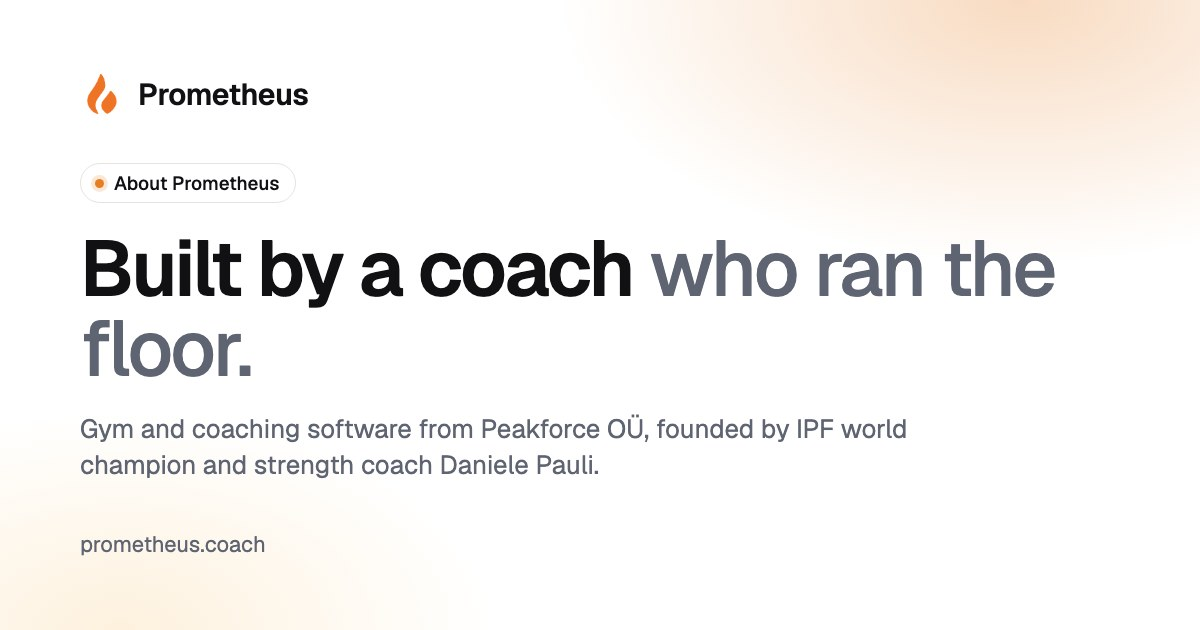
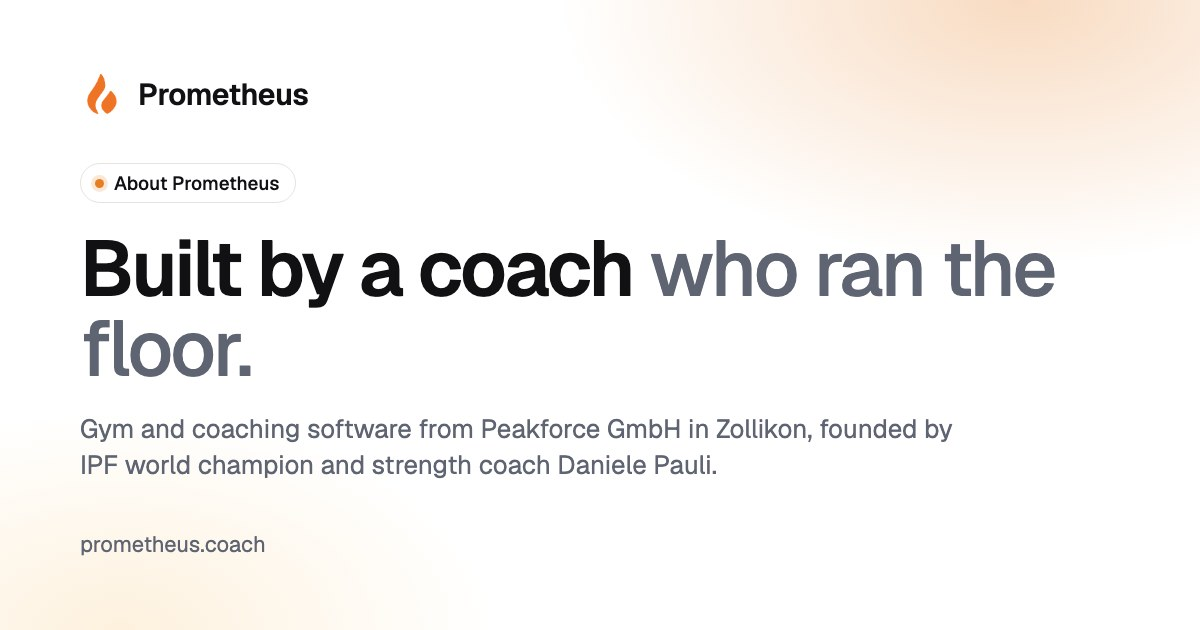
feat(impressum): Peakforce GmbH mit UID und Handelsregister-Nummer, Vorschaubilder ohne OÜ
Die Peakforce GmbH ist seit dem 20.10.2026 im Handelsregister des Kantons
Zürich eingetragen, SHAB-Publikation 23.10.2026 (Zefix): UID CHE-438.502.677,
CH-020-4093946-7. Impressum nennt Sitz, Register und UID, die Strukturdaten
auf / die UID. Die Teilen-Vorschaubilder für /about/ und /contact/ nannten
noch „Peakforce OÜ, Tallinn, Estonia" und sind neu gerendert.

Changed region(s): [[0.0617, 0.7238, 0.5858, 0.754], [0.4933, 0.6635, 0.8017, 0.6937]]

diff --git a/src/pages/Impressum.jsx b/src/pages/Impressum.jsx
@@ -1,7 +1,7 @@
 /* Impressum der Peakforce GmbH (owner, 2026-10-19: "OÜ sofort weg", Adresse
-   Niederfelbenweg 4, 8702 Zollikon). UID und Handelsregister-Nummer kommen
-   dazu, sobald der Eintrag im Handelsregister des Kantons Zürich publiziert
-   ist; nie "in Gründung" schreiben (Owner-Verbot). */
+   Niederfelbenweg 4, 8702 Zollikon). Eingetragen im Handelsregister des
+   Kantons Zürich am 20.10.2026, SHAB-Publikation 23.10.2026 (Zefix). Nie
+   "in Gründung" schreiben (Owner-Verbot). */
 const MAIL = 'management@prometheus.coach'
 
 export default function Impressum() {
@@ -16,7 +16,10 @@ export default function Impressum() {
           <ul className="space-y-2">
             <li><strong className="text-ink">Firma:</strong> Peakforce GmbH</li>
             <li><strong className="text-ink">Rechtsform:</strong> Gesellschaft mit beschränkter Haftung nach Schweizer Recht</li>
+            <li><strong className="text-ink">Sitz:</strong> Zollikon, Kanton Zürich</li>
             <li><strong className="text-ink">Adresse:</strong> Niederfelbenweg 4, 8702 Zollikon, Schweiz</li>
+            <li><strong className="text-ink">Handelsregister:</strong> Handelsregister des Kantons Zürich, CH-020-4093946-7</li>
+            <li><strong className="text-ink">UID:</strong> CHE-438.502.677</li>
           </ul>
         </section>
 

diff --git a/src/pages/HomePage.jsx b/src/pages/HomePage.jsx
@@ -125,6 +125,7 @@ const LD = {
       '@id': 'https://prometheus.coach/#org',
       name: 'Prometheus',
       legalName: 'Peakforce GmbH',
+      identifier: 'CHE-438.502.677',
       address: { '@type': 'PostalAddress', streetAddress: 'Niederfelbenweg 4', postalCode: '8702', addressLocality: 'Zollikon', addressCountry: 'CH' },
       url: 'https://prometheus.coach/',
       logo: 'https://prometheus.coach/images/flame.png',

diff --git a/TESTING.md b/TESTING.md
@@ -335,12 +335,13 @@ Owner: statt Desk die Kommandozentrale (mehr Funktionen), zuerst hell, dann dunk
 
 ## OFFEN — Peakforce GmbH statt OÜ auf der ganzen Website, Satz zu den Programmen auf /schweiz/ (2026-10-19)
 
-1. /impressum/: deutsch, „Peakforce GmbH“, „Niederfelbenweg 4, 8702 Zollikon, Schweiz“, E-Mail management@prometheus.coach, keine OÜ, kein Tallinn, keine Registernummer.
+1. /impressum/: deutsch, „Peakforce GmbH“, „Niederfelbenweg 4, 8702 Zollikon, Schweiz“, E-Mail management@prometheus.coach, keine OÜ, kein Tallinn, keine estnische Registernummer.
 2. /privacy/ und /terms/: Firma Peakforce GmbH mit Zollikoner Adresse; AGB Ziffer 11: Schweizer Recht, Gerichtsstand Zollikon; Datenschutz: Beschwerde beim EDÖB (FDPIC).
 3. /contact/ und /about/: Peakforce GmbH, Zollikon; nirgends mehr Estland.
 4. Footer auf / und /schweiz/: „© 2026 Peakforce GmbH · Zollikon · Prometheus“.
 5. /schweiz/, Block nach dem Hero: „Mitglieder in der einen Software. Kasse in der nächsten. Schichtplan im Excel. Belege im Ordner für den Treuhänder. Lauter einzelne Programme, und keins ist mit dem anderen verbunden.“
-6. UID und Handelsregister-Nummer nach dem Eintrag ins Impressum nachtragen.
+6. /impressum/ (seit 2026-10-23, Eintrag im HR ZH publiziert): Zeilen „Sitz: Zollikon, Kanton Zürich“, „Handelsregister: Handelsregister des Kantons Zürich, CH-020-4093946-7“, „UID: CHE-438.502.677“. Gegenprobe: UID auf zefix.ch suchen → Peakforce GmbH, Zollikon.
+7. Link von /about/ und /contact/ in WhatsApp oder Slack einfügen: Vorschaubild nennt „Peakforce GmbH“ und Zollikon, nicht mehr OÜ/Tallinn.
 
 ## OFFEN — /schweiz/: Anfrageformular statt „20 Minuten mit Daniele“, Umstieg + Website, Team, Peakforce GmbH (2026-10-19)
 
